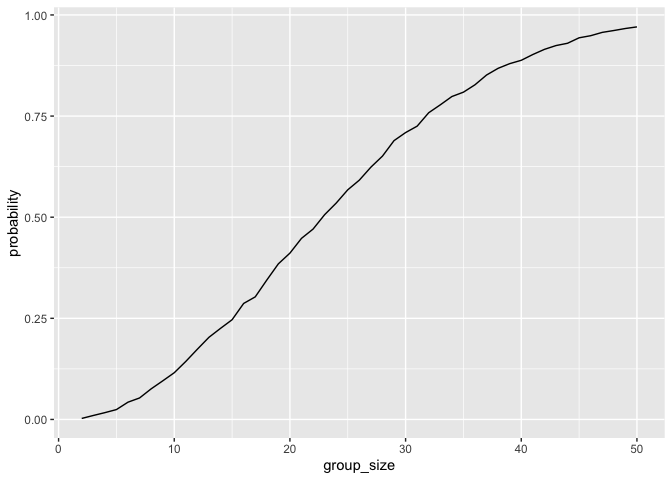
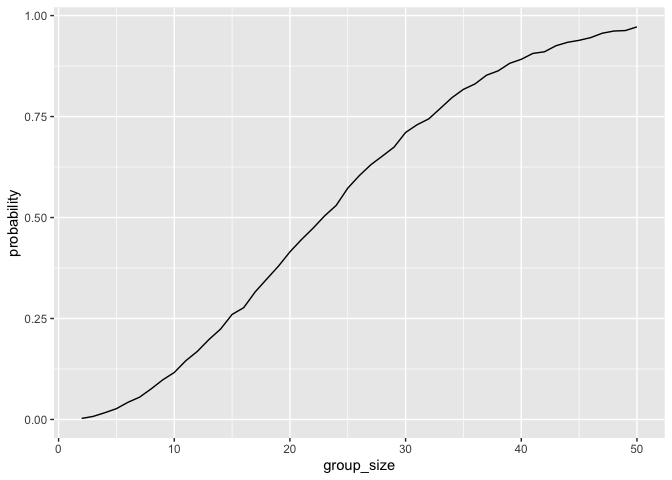
finished power plot

diff --git a/p8105_hw5_fa2818.md b/p8105_hw5_fa2818.md
@@ -219,3 +219,58 @@ longitudinal_df =
     ## 
     ## ℹ Use `spec()` to retrieve the full column specification for this data.
     ## ℹ Specify the column types or set `show_col_types = FALSE` to quiet this message.
+
+``` r
+longitudinal_df |>
+  ggplot(aes(x = week, y = outcome,
+             group = subject, color = arm)) +
+  geom_point() +
+  geom_line() +
+  facet_grid(.~arm) 
+```
+
+![](p8105_hw5_fa2818_files/figure-gfm/unnamed-chunk-6-1.png)<!-- -->
+
+``` r
+sim_t_test = function(mu) {
+
+sim_data = tibble(x = rnorm(30, mean = mu, sd = 5))
+
+t.test(sim_data$x, mu = 0) |>
+    broom::tidy() |>
+    select(estimate, p.value)
+}
+```
+
+``` r
+sim_t_test(0)
+```
+
+    ## # A tibble: 1 × 2
+    ##   estimate p.value
+    ##      <dbl>   <dbl>
+    ## 1   -0.659   0.442
+
+``` r
+sim_t_test(3)
+```
+
+    ## # A tibble: 1 × 2
+    ##   estimate  p.value
+    ##      <dbl>    <dbl>
+    ## 1     3.66 0.000254
+
+``` r
+sim_results =
+  expand_grid(
+    mu = 0:6,
+    iter = 1:5000
+  ) |>
+  mutate(
+    results = map(mu, sim_t_test)
+  ) |>
+  unnest(results) |>
+  mutate(
+    reject = p.value < 0.05
+  )
+```
